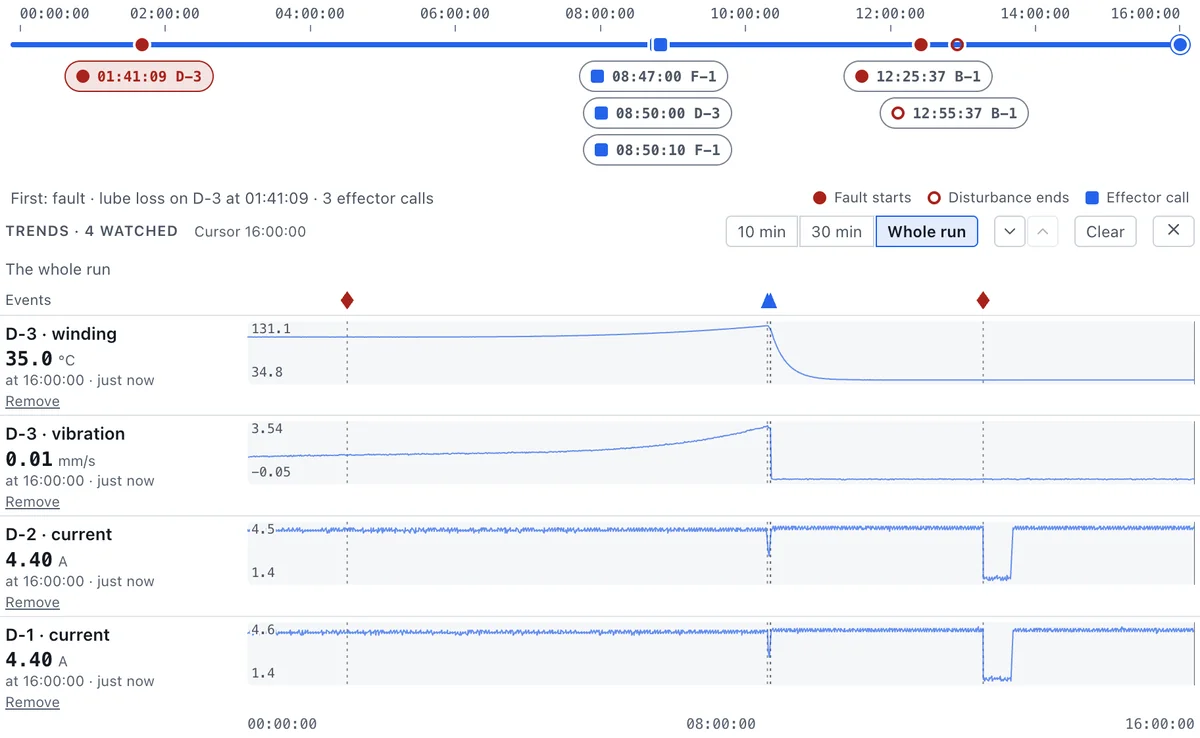
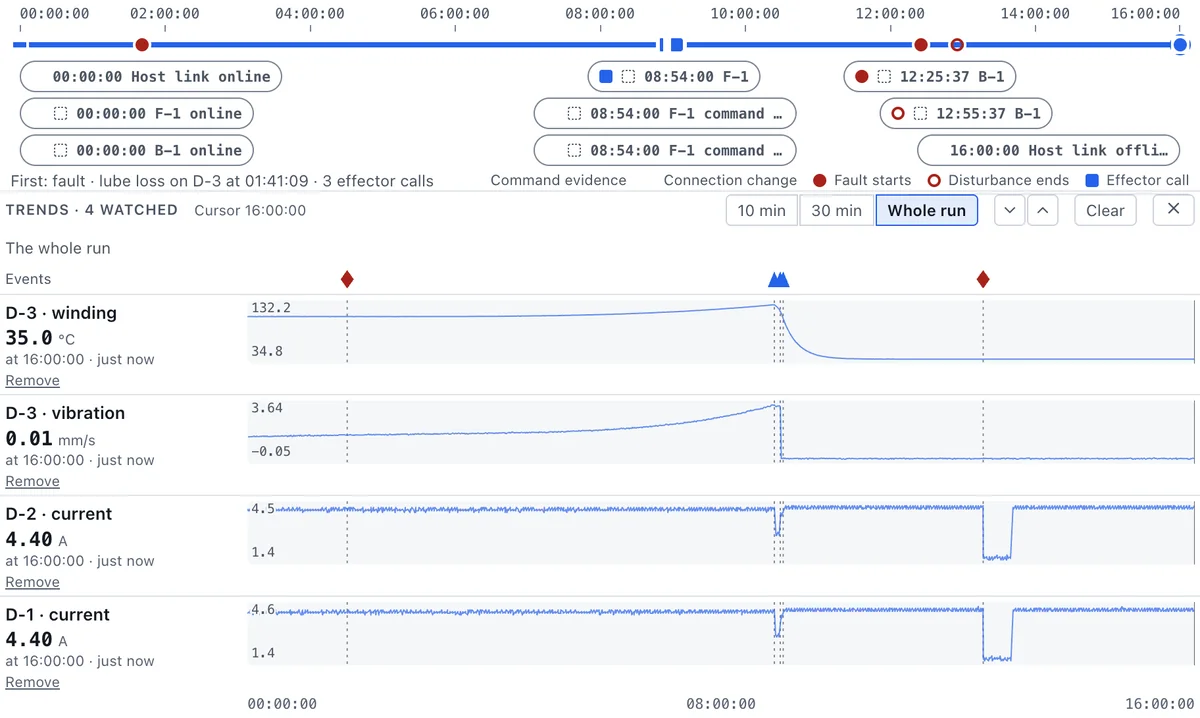
tamoz belt conveyor: show the live AI run in the simulator screenshots

diff --git a/projects/tamoz-belt-conveyor.html b/projects/tamoz-belt-conveyor.html
@@ -182,14 +182,14 @@
           </ol>
           <p>Later that day, a routine stop further down the line halted the belt. The belt carried only a light load, so the two healthy drives started it again. No drive tripped. The belt never stranded.</p>
           <figure class="diagram">
-            <a href="/images/projects/tamoz/belt-conveyor-planned-stop.webp"><img src="/images/projects/tamoz/belt-conveyor-planned-stop.webp" alt="Simulator timeline of a 16-hour run with three actions marked: feed stopped, drive 3 stopped, feed restored at a reduced rate." width="1200" height="424" loading="lazy" /></a>
+            <a href="/images/projects/tamoz/belt-conveyor-planned-stop.webp"><img src="/images/projects/tamoz/belt-conveyor-planned-stop.webp" alt="Simulator timeline of Tamoz's 16-hour run with three actions marked, and listed again in a table below: feed stopped, drive 3 stopped, feed restored at a reduced rate." width="1200" height="402" loading="lazy" /></a>
             <p class="diagram__hint">Tap the image to see it full size.</p>
-            <figcaption class="evidence-caption">The planned stop on the same simulated day: stop the feed, stop drive 3 on an empty belt, then restore a reduced feed on two drives. The times shown are from the simulator's own reference plan; the AI's run took the same three steps a few minutes later.</figcaption>
+            <figcaption class="evidence-caption">Tamoz's own run on the same simulated day: stop the feed, stop drive 3 on an empty belt, then restore a reduced feed on two drives. Each marker is a step the AI proposed and the policy passed; in the tests, approvals were automated.</figcaption>
           </figure>
           <figure class="diagram">
-            <a href="/images/projects/tamoz/belt-conveyor-after-stop.webp"><img src="/images/projects/tamoz/belt-conveyor-after-stop.webp" alt="Trend charts from the simulator. Drive 3's temperature and vibration fall after a planned stop, while drives 1 and 2 keep running and briefly stop and restart during a routine downstream stop." width="1200" height="738" loading="lazy" /></a>
+            <a href="/images/projects/tamoz/belt-conveyor-after-stop.webp"><img src="/images/projects/tamoz/belt-conveyor-after-stop.webp" alt="Timeline and trend charts from Tamoz's run in the simulator. Drive 3's temperature and vibration fall after the planned stop, while drives 1 and 2 keep running and briefly stop and restart during a routine downstream stop." width="1200" height="718" loading="lazy" /></a>
             <p class="diagram__hint">Tap the image to see it full size.</p>
-            <figcaption class="evidence-caption">Drive 3 is stopped before it overheats, then cools down. The other two drives carry the belt, and restart it after a routine stop further down the line. Same plan as above, from the simulator's reference run. The model is a short, flat conveyor with small drives; on a larger line the currents are higher, but the pattern is the same.</figcaption>
+            <figcaption class="evidence-caption">Tamoz's own run: drive 3 is stopped before it overheats, then cools down. The other two drives carry the belt, and restart it after a routine stop further down the line. The model is a short, flat conveyor with small drives; on a larger line the currents are higher, but the pattern is the same.</figcaption>
           </figure>
 
           <h2 id="not-fooled">What it was not fooled by</h2>
